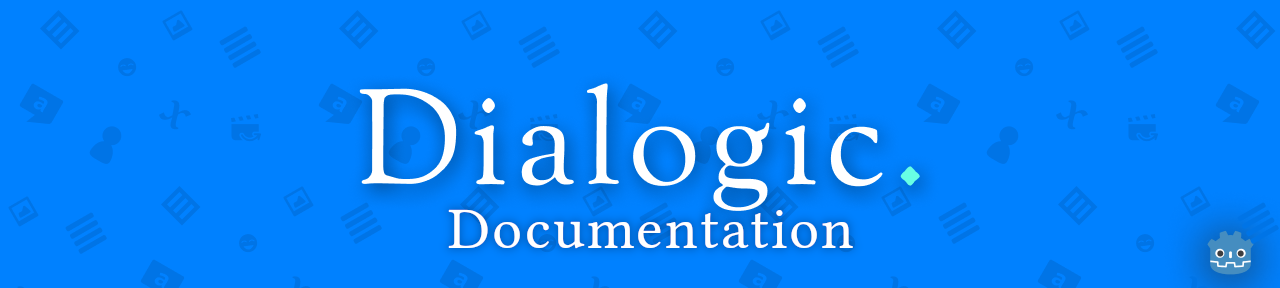
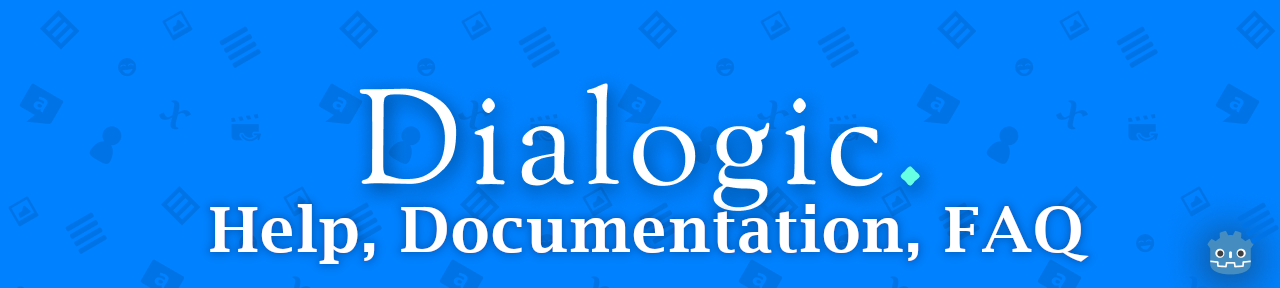
Added <> to have a visited history.
You have now two arrows in the upper left corner. You can use them to go back to previously visited pages.

Also I changed the welcome image to not only include documentation.

Changed region(s): [[0.1562, 0.6875, 0.875, 0.9375]]

diff --git a/addons/dialogic/Documentation/Content/Welcome.md b/addons/dialogic/Documentation/Content/Welcome.md
@@ -2,9 +2,10 @@
 ![WelcomeImage](./Images/WelcomeImage.png)
 We hope it can help you with your problem.
 
-These are the main sections. If you are looking for something specific, you can use the filter in the upper left
+These are the main sections: 
 - [Tutorials](./Tutorials)
 - [Reference](./Reference)
 - [Frequently asked questions](./FAQ)
+If you are looking for something specific, you can use the filter in the upper left.
 
 If you don't find your answer, consider asking on [emilios discord server](https://discord.gg/v4zhZNh)!
